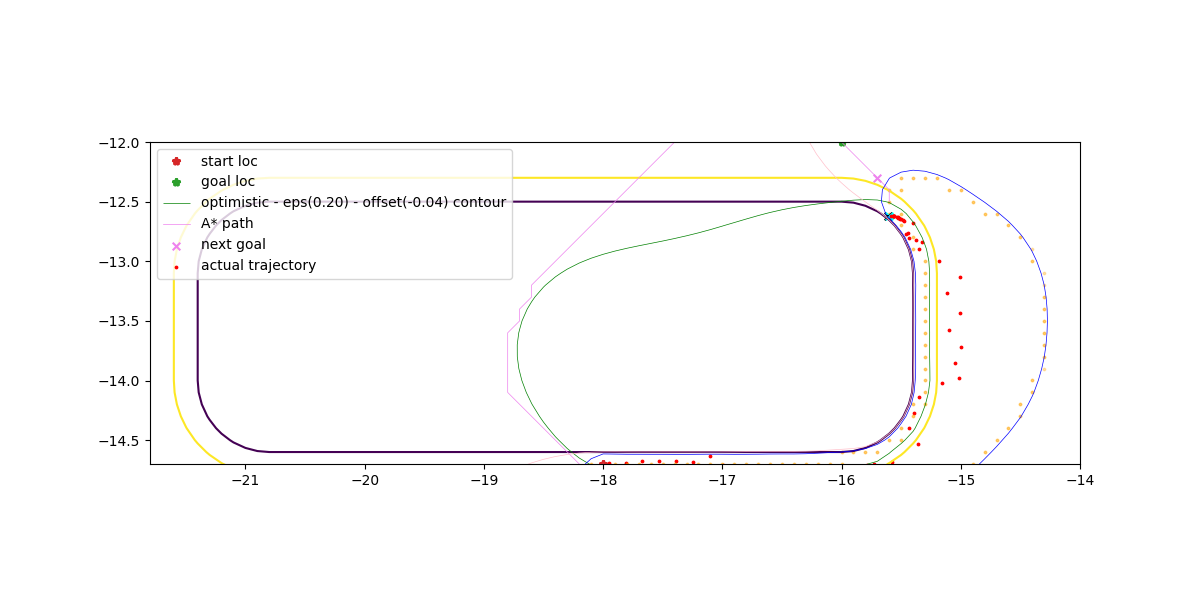
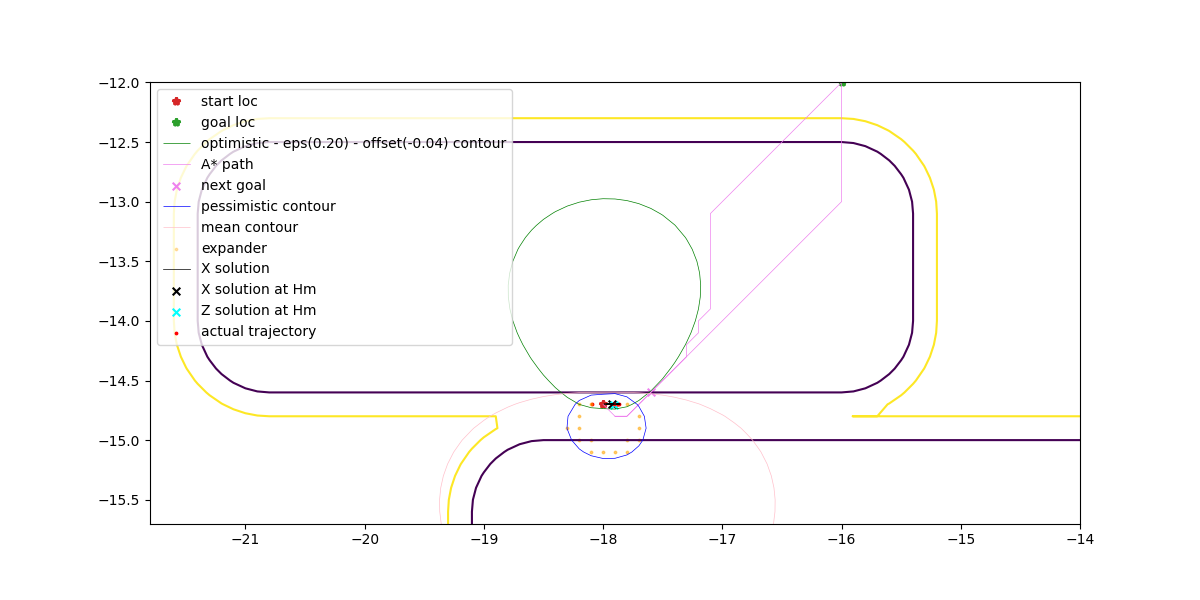
ADD: backtrack to expander (stuck)

diff --git a/src/solver.py b/src/solver.py
@@ -61,7 +61,7 @@ class SEMPC_solver(object):
         self.fig_dir = fig_dir
         self.plot_per_sqp_iter = params["experiment"]["plot_per_sqp_iter"]
         self.publisher = publisher
-        
+
         self.last_X = np.zeros((self.H + 1, self.state_dim + 1))
         self.last_U = np.zeros((self.H, self.x_dim + 1 + self.x_dim))
         for stage in range(self.H):
@@ -312,10 +312,10 @@ class SEMPC_solver(object):
                     stage,
                     "p",
                     np.hstack(
-                        (   
+                        (
                             x_h[stage, :],
-                            x_h[stage, :], #unused
-                            u_h[stage - 1, : -self.x_dim], #unused
+                            x_h[stage, :],  # unused
+                            u_h[stage - 1, : -self.x_dim],  # unused
                             gp_val[stage],
                             gp_grad[stage],
                             xg[stage],
@@ -382,17 +382,28 @@ class SEMPC_solver(object):
 
             X, U, Sl = self.get_solution()
             alpha = 1.0
-            gp_val_next, _ = player.get_gp_sensitivities(X[:, : self.x_dim], "LB", "Cx")
-            print("GP val next: ", gp_val_next[self.Hm], "Step size: ", (X - x_h)[self.Hm, :])
-            while (any(gp_val_next < self.params["common"]["constraint"])) and (
-                alpha >= 0.0
-            ):
+            LB_cz_val_next, _ = player.get_gp_sensitivities(
+                U[:, -self.x_dim :], "LB", "Cx"
+            )
+            print(
+                "GP val next: ",
+                LB_cz_val_next[self.Hm]
+                - np.linalg.norm(X[self.Hm, : self.x_dim] - U[self.Hm, -self.x_dim :]),
+            )
+            while (
+                any(
+                    LB_cz_val_next
+                    - np.linalg.norm(X[:-1, : self.x_dim] - U[:, -self.x_dim :], axis=-1)
+                    < self.params["common"]["constraint"]
+                )
+            ) and (alpha >= 0.0):
                 print(f"Backtracking... alpha={alpha}")
                 alpha -= 0.1
                 X = alpha * X + (1 - alpha) * x_h
                 U = alpha * U + (1 - alpha) * u_h
-                gp_val_next, _ = player.get_gp_sensitivities(X[:, : self.x_dim], "LB", "Cx")
-                print("GP val next: ", gp_val_next[self.Hm])
+                LB_cz_val_next, _ = player.get_gp_sensitivities(
+                    U[:, -self.x_dim :], "LB", "Cx"
+                )
             self.last_X = X.copy()
             self.last_U = U.copy()
             if (

diff --git a/src/utils/ocp.py b/src/utils/ocp.py
@@ -289,7 +289,7 @@ def sempc_const_expr(model, x_dim, n_order, params, model_x, model_z, x_lin):
             - Lc * ca.norm_2(x_lin[:x_dim] - z_lin)
             - q_th,
             cw * var,
-            w * (lb_cx_lin + lb_cx_grad.T @ (model_x - x_lin)[:x_dim]),
+            # w * (lb_cx_lin + lb_cx_grad.T @ (model_x - x_lin)[:x_dim]),
         )
         # Since the variable z is actually a u, we cannot have a terminal constraint on u for H+1
         model.con_h_expr_e = ca.vertcat(
@@ -462,12 +462,12 @@ def sempc_const_val(ocp, params, x_dim, n_order):
             if params["agent"]["dynamics"] == "nova_carter"
             else params["common"]["expander_offset"]
         )
-        # ocp.constraints.lh = np.array([0, eps])
-        # ocp.constraints.uh = np.array([10.0, 1e8])
+        ocp.constraints.lh = np.array([0, eps])
+        ocp.constraints.uh = np.array([10.0, 1e8])
         # ocp.constraints.lh = np.array([0, eps, -1e8, 0])
         # ocp.constraints.uh = np.array([10.0, 1e8, l_max, 10.0])
-        ocp.constraints.lh = np.array([0, eps, -1e8])
-        ocp.constraints.uh = np.array([10.0, 1e8, l_max])
+        # ocp.constraints.lh = np.array([0, eps, -1e8])
+        # ocp.constraints.uh = np.array([10.0, 1e8, l_max])
     else:
         ocp.constraints.lh = np.array([0, eps])
         ocp.constraints.uh = np.array([10.0, 1e8])

diff --git a/src/SEMPC.py b/src/SEMPC.py
@@ -889,7 +889,7 @@ class SEMPC(Node):
                 ]
             )
             self.env.ax.set_ylim(
-                [self.params["env"]["start_loc"][1], self.params["env"]["goal_loc"][1]]
+                [self.params["env"]["start_loc"][1] - 1.0, self.params["env"]["goal_loc"][1]]
             )
             self.env.ax.grid()
         # self.env.fig.savefig(os.path.join(self.fig_dir, f"sim_{self.sim_iter}.png"))
